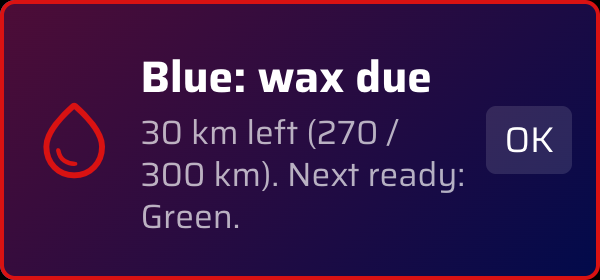
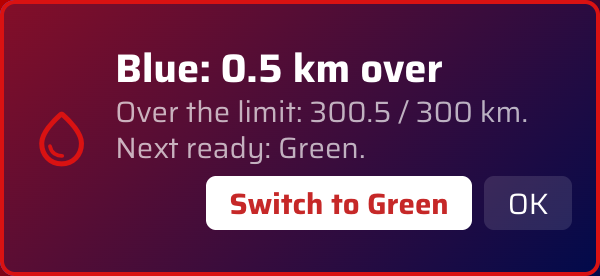
WaxLog 0.7.0: alert with live km, chain rotation, window fits its layout
- The alert message keeps counting the km while it's open and offers
  "Switch to <next>" (the next ready chain in list order) or, when every
  chain is used, "Wax all -> #1" (second click confirms). In short windows
  it is one row: km, button, OK. The small-window variant now follows the
  display stage instead of a fixed height (text scales with the width).
- New "Show alert message" option under Alerts (on by default); off, the
  colors and the beep are the alarm.
- Wax all also puts #1 on the bike to start the next rotation.
- A second after a resize, the window height shrinks to fit the layout
  it shows (Sauce RPCs getSenderWindowBounds / resizeOwnWindow); the
  layout and text size stay.
- README and screenshots updated.

diff --git a/pages/css/waxlog.css b/pages/css/waxlog.css
@@ -241,27 +241,32 @@ html.wax-demo .wax-demo-badge { display: inline; }
 
 /* ---------- on-screen alert box ---------- */
 
+/* Icon left; title (with the live km), message and buttons stacked on the right. A short
+   window keeps one row: title and buttons. */
 #wax-alert {
     display: none;
     position: absolute;
     inset: 0;
     z-index: 5;
-    padding: 10px 12px;
+    padding: 8px 12px;
+    grid-template-columns: auto minmax(0, 1fr);
+    grid-template-areas: "icon text" "icon buttons";
+    align-content: center;
     align-items: center;
-    gap: 10px;
+    column-gap: 10px;
+    row-gap: 4px;
     background: linear-gradient(135deg, hsl(var(--wax-h-neg) / 0.35), hsl(var(--wax-h-bg2) / 0.95)),
                 var(--wax-bg-solid) !important;
     border: 2px solid var(--wax-due);
     border-radius: var(--wax-radius);
     animation: wax-pop 300ms ease-out;
+    cursor: pointer;  /* click anywhere (or Escape) to dismiss */
 }
-
-#wax-alert { cursor: pointer; }  /* click anywhere (or Escape) to dismiss */
 #wax-alert[data-level="over"] {
     background: linear-gradient(135deg, hsl(var(--wax-h-neg) / 0.6), hsl(var(--wax-h-bg2) / 0.95)),
                 var(--wax-bg-solid) !important;
 }
-html.wax-alerting #wax-alert { display: flex; }
+html.wax-alerting #wax-alert { display: grid; }
 
 @keyframes wax-pop {
     from { transform: scale(0.9); opacity: 0; }
@@ -269,36 +274,77 @@ html.wax-alerting #wax-alert { display: flex; }
 }
 
 .wax-alert-icon {
-    flex: 0 0 2.2em;
-    width: 2.2em;
+    grid-area: icon;
+    width: 1.6em;
     overflow: hidden;
     text-align: center;
 }
-
 .wax-alert-icon ms {
-    font-size: 2.2em;
+    font-size: 1.6em;
     color: var(--wax-due);
 }
-
 #wax-alert[data-level="over"] .wax-alert-icon ms { color: var(--wax-over); }
 
-/* Window shrunk to the slim row: keep just the title line of the alert. */
-@media (max-height: 80px) {
-    #wax-alert { padding: 2px 8px; }
-    .wax-alert-icon, .wax-alert-msg { display: none; }
+.wax-alert-text { grid-area: text; min-width: 0; }
+.wax-alert-title {
+    font-weight: 700;
+    font-size: 0.95em;
+    line-height: 1.2;
+    white-space: nowrap;
+    overflow: hidden;
+    text-overflow: ellipsis;
+    font-variant-numeric: tabular-nums;
 }
-
-.wax-alert-text { flex: 1; min-width: 0; }
-.wax-alert-title { font-weight: 700; font-size: 1.05em; }
 .wax-alert-msg {
-    font-size: 0.8em;
+    font-size: 0.7em;
     line-height: 1.25;
     color: var(--wax-dim);
     display: -webkit-box;
-    -webkit-line-clamp: 3;
+    -webkit-line-clamp: 2;
     -webkit-box-orient: vertical;
     overflow: hidden;
 }
+
+.wax-alert-buttons {
+    grid-area: buttons;
+    display: flex;
+    justify-content: flex-end;
+    gap: 6px;
+    min-width: 0;
+}
+#wax-root #wax-alert button {
+    flex: 0 0 auto;
+    font-size: 0.7em;
+    padding: 0.15em 0.8em;
+}
+#wax-alert :is(.wax-alert-switch, .wax-alert-waxall)[hidden] { display: none; }
+/* The way out of "over limit", so it stands out from OK: white like the status badge. */
+#wax-root #wax-alert :is(.wax-alert-switch, .wax-alert-waxall):not(.confirming) {
+    background: #fff;
+    color: #c62828;
+}
+#wax-root #wax-alert :is(.wax-alert-switch, .wax-alert-waxall) {
+    flex: 0 1 auto;
+    min-width: 0;
+    font-weight: 700;
+    overflow: hidden;
+    text-overflow: ellipsis;
+    white-space: nowrap;
+}
+
+/* The one-row stages (window too short for the big box) get a one-row alert: the title (it has
+   the km) and the buttons. Tied to the stage, not to a height: Sauce scales the text with the
+   width, so the room needed in px depends on it. */
+html:not([data-wax-size="full"]) #wax-alert {
+    padding: 2px 8px;
+    grid-template-columns: minmax(0, 1fr) auto;
+    grid-template-areas: "text buttons";
+}
+/* No room for the chain's name: the km come first, the switch button is just "⇄ Green". */
+html:not([data-wax-size="full"]) :is(.wax-alert-icon, .wax-alert-msg, .wax-alert-chain, .wax-alert-verb) {
+    display: none;
+}
+html:not([data-wax-size="full"]) .wax-alert-next::before { content: "\21C4  "; }
 
 /* ---------- manage panel ---------- */
 

diff --git a/pages/waxlog-settings.html b/pages/waxlog-settings.html
@@ -31,8 +31,8 @@
             <section id="wax-manage">
                 <div class="wax-manage-head">
                     <strong>Chains</strong>
-                    <button id="wax-all" data-confirm="All chains to 0 km?"
-                            title="Mark every chain as freshly waxed">Wax all</button>
+                    <button id="wax-all" data-confirm="All to 0 km, #1 on bike?"
+                            title="Mark every chain as freshly waxed and put #1 (the top one) on the bike">Wax all</button>
                     <button id="wax-done" title="Close this window">Done</button>
                 </div>
                 <ul id="wax-chains"></ul>
@@ -50,6 +50,8 @@
                 <h4>Alerts</h4>
                 <form id="wax-settings">
                     <label>Alert at <input name="alertPct" type="number" min="50" max="99" step="1"/> % of limit</label>
+                    <label title="Off: the window's colors (red status, pulsing frame) are the only alarm.">
+                        <input name="alertMessage" type="checkbox"/> Show alert message</label>
                     <label><input name="beep" type="checkbox"/> Beep on alert</label>
                     <label title="Invisible while the chain is fine; shows up at the alert threshold. Hover the window to peek.">
                         <input name="minimal" type="checkbox"/> Hide until alert</label>

diff --git a/pages/waxlog.html b/pages/waxlog.html
@@ -57,10 +57,17 @@
             <section id="wax-alert" role="alert">
                 <div class="wax-alert-icon"><ms>water_drop</ms></div>
                 <div class="wax-alert-text">
-                    <div class="wax-alert-title"></div>
+                    <div class="wax-alert-title"><span class="wax-alert-chain"></span><span class="wax-alert-km"></span></div>
                     <div class="wax-alert-msg"></div>
                 </div>
-                <button class="wax-alert-dismiss" title="Dismiss (or click anywhere, or press Esc)">OK</button>
+                <div class="wax-alert-buttons">
+                    <!-- Only when another chain is ready (under the alert threshold). -->
+                    <button class="wax-alert-switch" hidden title="Put this chain on the bike"><span class="wax-alert-verb">Switch to </span><span class="wax-alert-next"></span></button>
+                    <!-- Only when no chain is ready any more: the rotation is used up. -->
+                    <button class="wax-alert-waxall" hidden data-confirm="Sure? All to 0 km"
+                            title="Mark every chain as freshly waxed and put #1 on the bike"></button>
+                    <button class="wax-alert-dismiss" title="Dismiss (or click anywhere, or press Esc)">OK</button>
+                </div>
             </section>
         </div>
     </body>

diff --git a/README.md b/README.md
@@ -11,13 +11,17 @@ when that chain needs fresh wax. The idea comes from
 - **Several chains**, each with a name, a color and its own km limit
 - **Switch chains** with "Put on bike". Only the active chain counts km.
 - **Waxed** resets the chain's km to 0. Its total km and wax count are kept.
-  **Wax all** does that for every chain at once, for when the whole set went in the pot.
+  **Wax all** does that for every chain at once, for when the whole set went in the pot, and
+  puts #1 (the top chain in the list) back on the bike to start the next rotation.
 - **Fits the window:** the window size decides how much it shows. Drag it flat and you get one
   row (name, status, km left); a bit taller adds the bar, taller still a line with the km since
   waxing (and this ride's km), and with enough room the big box with large km digits and the
   "km left" line under them. When a row gets tight, the chain name is shortened, never the
   status; the colored stripe on the left still tells which chain it is. It only changes when you resize the window,
-  never during a ride.
+  never during a ride. A second after you stop resizing, the window's height shrinks to fit the
+  layout it shows, so there's no empty space. The layout and the text size stay as they are
+  (Sauce sizes the text by the window's width). For a bigger layout, drag the window taller
+  until it appears.
 
   ![The smaller stages: one row with bar and km line, with bar, and the row alone](docs/images/overlay-sub.png)
   ![](docs/images/overlay-bar.png)
@@ -29,11 +33,16 @@ when that chain needs fresh wax. The idea comes from
   (90 % by default), and a pulsing outline once you're over the limit. The status is also
   written out (ok / wax soon / wax due / over limit), so it doesn't rely on color alone.
   "Wax due" and "over limit" stand out as red on a white badge, readable on every theme.
-- **On-screen alert box** (with an optional beep) when the chain reaches the alert threshold
-  and again when it reaches the limit. It names the chain that's ready to go on next. Click
-  anywhere on it or press Esc to dismiss.
+- **On-screen alert** (with an optional beep) when the chain reaches the alert threshold and
+  again when it reaches the limit. Its km keep counting while it's open. Chains rotate in list
+  order: **Switch to …** puts the next chain that's still under the alert threshold on the bike
+  right there. When every chain is used, it offers **Wax all → #1** instead (a second click
+  confirms): all chains to 0 km and #1 back on the bike. Click
+  anywhere else on it, OK, or Esc dismisses it. In a short window it's one row: the km, "⇄
+  Green" and OK. Don't want it? Untick **Show alert message** under Alerts: the colors (and
+  the beep, if on) are the alarm then.
 
-  ![The alert box when the chain is due](docs/images/alert.png)
+  ![The alert when the chain is over the limit](docs/images/alert.png)
 - **Edit** fixes a name, color or limit, or sets the km since waxing by hand (e.g. when you
   start using the mod with chains that are already partly used)
 - **Demo** in the settings window shows a made-up ride for 10 minutes, so you can place and
@@ -83,6 +92,7 @@ Use
 - **Demo:** press **Start demo** in the settings window and the WaxLog window shows a made-up
   ride (600 m per second) for 10 minutes, marked **DEMO** with the time left. It is visible
   even with "Hide until alert", and it runs through the alerts, so you can see where they appear.
+  Switch in the demo only closes the alert; your chains stay as they are.
   Without any chain it uses a sample chain. **Stop demo** ends it early. Meanwhile Zwift data
   is ignored and nothing is saved: the demo km live on a copy of your log. Km you ride in
   Zwift during the demo are not lost; they're counted as soon as the demo ends.
@@ -156,7 +166,7 @@ Files
 | `manifest.json` | Mod manifest (one overlay window) |
 | `pages/waxlog.html` | Overlay window (box + alert) |
 | `pages/waxlog-settings.html` | Chains & settings window |
-| `pages/src/waxlog.mjs` | Sauce wiring, storage, alerts, UI (`main` = overlay, `settingsMain` = settings) |
+| `pages/src/waxlog.mjs` | Sauce wiring, storage, alerts, window fitting, UI (`main` = overlay, `settingsMain` = settings) |
 | `pages/src/waxlog-core.mjs` | Pure logic: data model, ride checkpoint, levels, demo |
 | `pages/css/waxlog.css` | Styles |
 | `tests/core.test.mjs` | Tests for the core logic |
